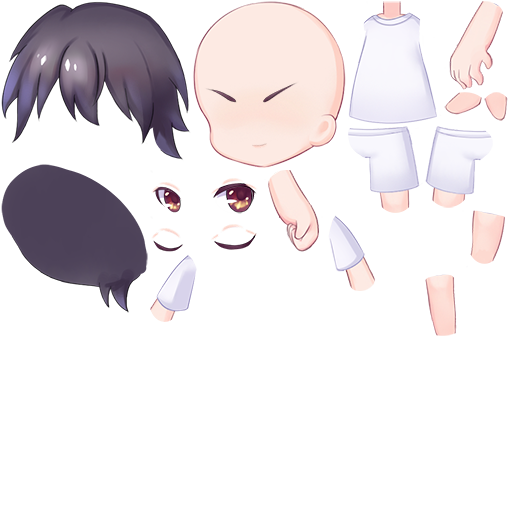
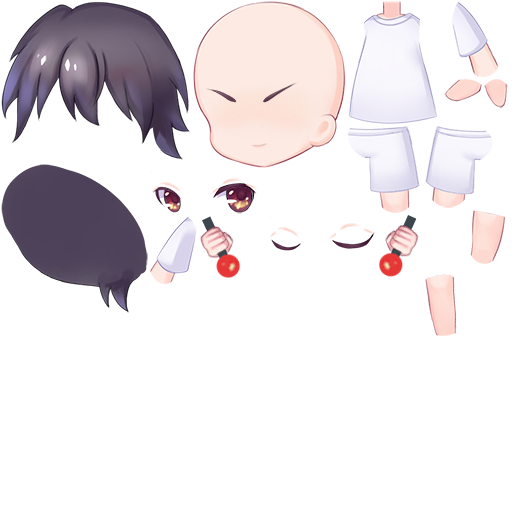
炮管更新小人动画

Changed region(s): [[0.5, 0.3125, 0.8125, 0.5938], [0.2812, 0.4062, 0.5, 0.625], [0.875, 0.0, 1.0, 0.25]]

diff --git a/ClientBoss/src/core/scenes/role/RoleBone.ts b/ClientBoss/src/core/scenes/role/RoleBone.ts
@@ -1,0 +1,143 @@
+module game {
+    export enum SexType
+    {
+        Boy  = 1,
+        Girl = 0,
+    }
+    export class RoleBone extends PanelComponent {
+
+        grp_role            : eui.Group;
+        
+        private _girlBone   : SkeletonBase;
+        private _boyBone    : SkeletonBase;
+        private gender;
+
+
+
+        protected getSkinName()
+        {
+            return RoleBoneSkin;
+        }
+
+        protected init() 
+        {
+
+        }
+
+        public awake()
+        {
+            console.log("Role Bone Awake",DataManager.playerModel.sex);
+
+            this.gender = DataManager.playerModel.sex;
+            this.updateBones();
+            //切换模型骨骼
+            this.useGirlSpine(this.gender == SexType.Girl);
+        }
+        
+        private resetParts(bone: SkeletonBase) {
+            if (!bone) return;
+            let slots = bone.armature.getSlots();
+            slots.forEach((slot) => {
+                bone.resetSlot(slot.name);
+            })
+        }
+
+        private changePart(e: table.IEquipDefine) {
+            let pos = e.Pos;
+            let sex = e.Sex;
+            let slotNames = e.LoadPoint;
+            let suit = e['Suit'];
+            if (slotNames.length <= 0) return;
+            if (sex == 0) {
+                suit = suit || "girl_suit2";
+                if (!this._girlBone) return;
+                this.changeSlotsInSuit(this._girlBone, slotNames, suit);
+            } else {
+                suit = suit || "boy_suit2";
+                if (!this._boyBone) return;
+                this.changeSlotsInSuit(this._boyBone, slotNames, suit);
+            }
+
+        }
+
+        private changeSlotsInSuit(bone: SkeletonBase, slotNames: string[], suitName: string) {
+            slotNames.forEach((name) => {
+                let assetName = `${suitName}_json.${name}`;
+                // console.log("骨骼图集：", assetName);
+                bone.setNewSlot(name, assetName);
+            })
+        }
+
+        private resetSlots(bone: SkeletonBase, slotNames: string[]) {
+            slotNames.forEach((name) => bone.resetSlot(name));
+        }
+    
+        //TODO: 切换模型骨骼
+        public async useGirlSpine(b: boolean) {
+            hideAllChildren(this.grp_role);
+            if (b) {
+                if (!this._girlBone) {
+                    this._girlBone = await game.getBone("girl");
+                    this.grp_role.addChild(this._girlBone);
+                    adjustBone(<egret.DisplayObject>(this._girlBone), this.grp_role);
+                    let r = randRange(1, this._girlBone.animNum);
+                    r = 4;
+                    this._girlBone.play(`idle${r}`, -1);
+                }
+                this._boyBone && (this._boyBone.visible = false);
+                this._girlBone && (this._girlBone.visible = true);
+            } else {
+                if (!this._boyBone) {
+                    this._boyBone = await game.getBone("boy");
+                    this.grp_role.addChild(this._boyBone);
+                    adjustBone(<egret.DisplayObject>(this._boyBone), this.grp_role);
+                    let r = randRange(1, this._boyBone.animNum);
+                    r = 4;                    
+                    this._boyBone.play(`idle${r}`, -1);
+                }
+                this._boyBone && (this._boyBone.visible = true);
+                this._girlBone && (this._girlBone.visible = false);
+            }
+            this.updateBones();  
+
+            if(this.gender == SexType.Girl)
+            {
+                if(!this._girlBone) return;
+                this.resetSlots(this._girlBone, ["body1_1_02","body1_1_04"]);
+            }
+            else if(this.gender == SexType.Boy)
+            {
+                if(!this._boyBone) return;
+                this.resetSlots(this._boyBone, ["body1_1_02","body1_1_04"]);                          
+            }
+        }
+
+        // 更新骨骼动画
+        private updateBones() {
+            let clothes = DataManager.playerModel.clothes;
+            if (!clothes) {
+                return;
+            }
+            for (let l of clothes) {
+                if (l.sex == this.gender) 
+                {
+                    if (l.clothes.length == 0) 
+                    {
+                        if (this.gender == 0)
+                            this.resetParts(this._girlBone);
+                        else
+                            this.resetParts(this._boyBone);
+                        return;
+                    }
+                    else
+                    {
+                        for (let m of l.clothes) {
+                            let item = table.EquipById[m.id];
+                            this.changePart(item);
+                        }
+                    }
+                }
+            }
+        }
+    }
+}

diff --git a/ClientBoss/src/core/scenes/role/RoleDress.ts b/ClientBoss/src/core/scenes/role/RoleDress.ts
@@ -254,9 +254,6 @@ module game {
        
             while ((dressItem = table.EquipById[id++])) {
                 if (dressItem.Sex == this.gender || dressItem.Sex == 2) {
-                    if (DataManager.playerModel.IsHaveItem(dressItem.Id)) {
-                        dressItem.Price = -1;
-                    }
                     this._dataProv.addItem(dressItem);
                 }
             }
@@ -473,6 +470,10 @@ module game {
             slots.forEach((slot) => {
                 bone.resetSlot(slot.name);
             })
+            
+            //强制重置替换左右手贴图
+            let suitName = this.isGirl ? "girl_suit2" :"boy_suit2";
+            this.changeSlotsInSuit(bone,["body1_1_02","body1_1_04"], suitName);
         }
 
         private changePartWithNet(item: table.IEquipDefine) {
@@ -510,15 +511,18 @@ module game {
                 bone.setNewSlot(name, assetName);
             })
         }
-
+        
+        //脱下衣服并且重置为骨骼默认绑定图片
         private unwear(item: table.IEquipDefine) {
             if (item.LoadPoint.length <= 0) return;
-            if (item.Sex == 0) {
-                this.resetSlots(this._girlBone, item.LoadPoint);
-            } else {
-                this.resetSlots(this._boyBone, item.LoadPoint);
-            }
 
+            let bone = item.Sex == 0 ? this._girlBone : this._boyBone;
+            this.resetSlots(bone, item.LoadPoint);
+
+            //强制重置替换左右手贴图
+            let suitName = this.isGirl ? "girl_suit2" :"boy_suit2";
+            this.changeSlotsInSuit(bone,["body1_1_02","body1_1_04"], suitName);
+ 
             if (DataManager.playerModel.IsHaveItem(item.Id)) {
                 this.sendmsg_UnDressCloth({
                     pos: item.Pos
@@ -538,7 +542,8 @@ module game {
                     this._girlBone = await game.getBone("girl");
                     this.grp_role.addChild(this._girlBone);
                     adjustBone(<egret.DisplayObject>(this._girlBone), this.grp_role);
-                    let r = randRange(1, this._girlBone.animNum);
+                    //let r = randRange(1, this._girlBone.animNum);
+                    let r = randRange(1, 4);                    
                     this._girlBone.play(`idle${r}`, -1);
                 }
                 this._boyBone && (this._boyBone.visible = false);
@@ -548,7 +553,8 @@ module game {
                     this._boyBone = await game.getBone("boy");
                     this.grp_role.addChild(this._boyBone);
                     adjustBone(<egret.DisplayObject>(this._boyBone), this.grp_role);
-                    let r = randRange(1, this._boyBone.animNum);
+                    //let r = randRange(1, this._boyBone.animNum);
+                    let r = randRange(1, 4);                    
                     this._boyBone.play(`idle${r}`, -1);
                 }
                 this._boyBone && (this._boyBone.visible = true);

diff --git a/ClientBoss/src/core/scenes/battle/BattleScene.ts b/ClientBoss/src/core/scenes/battle/BattleScene.ts
@@ -17,6 +17,8 @@ module game {
         ball1Price: eui.Label;
         ball2Price: eui.Label;
         hitLabel: eui.Label;
+        diamondNumTxt : eui.Label;
+        
         topImage: eui.Image;
         noticeLabel: eui.Label;
         brickInfoGroup: eui.Group;
@@ -38,6 +40,8 @@ module game {
 
         coin_money: game.Coins;
         coin_gold: game.Coins;
+
+        roleBoneGroup : eui.Group;
 
         private _nowSp: number = 0;
         private _spCool: number = 0;
@@ -66,6 +70,7 @@ module game {
         private _timeBoomPool: ObjectPool<BattleTimeBoom>;
         private _firewallPool: ObjectPool<BattleFirewall>;
         private _icePool: ObjectPool<BattleIce>;
+        private _roleBonePool : ObjectPool<RoleBone>;
 
         private _paddle: BattlePaddle;
 
@@ -167,6 +172,7 @@ module game {
             this._timeBoomPool = new ObjectPool<BattleTimeBoom>(BattleTimeBoom);
             this._firewallPool = new ObjectPool<BattleFirewall>(BattleFirewall);
             this._icePool = new ObjectPool<BattleIce>(BattleIce);
+            this._roleBonePool = new ObjectPool<RoleBone>(RoleBone);
 
             for (let brickInfo of table.TBirckInfo) {
                 if (!brickInfo.Bullet) continue;
@@ -324,6 +330,19 @@ module game {
             this._diedMaxX = 720 + 14;
             this._nowSp = 0;
             this.updateSp();
+
+            //小人动画
+            let _roleBone = this._roleBonePool.createObject();
+            _roleBone.awake();
+            this.roleBoneGroup.addChild(_roleBone);
+            this.roleBoneGroup.setChildIndex(_roleBone,1);
+        
+            _roleBone.scaleX = 0.42;
+            _roleBone.scaleY = 0.42;
+            _roleBone.rotation  = 12;
+            _roleBone.x = 55;
+            _roleBone.y = 30;
+
 
             this.doubleGroup.visible = false;
             this._leftFirewall = [];
@@ -565,7 +584,8 @@ module game {
         }
 
         private updateDiamond() {
-            this.coin_money.coins = <number>DataManager.playerModel.getDiamond();
+            //this.coin_money.coins = <number>DataManager.playerModel.getDiamond();
+            this.diamondNumTxt.text = DataManager.playerModel.getDiamond().toString();      
         }
 
         private ballHandle(ballButton: IconButton) {

diff --git a/ClientBoss/src/core/scenes/role/ChooseIcon.ts b/ClientBoss/src/core/scenes/role/ChooseIcon.ts
@@ -18,11 +18,7 @@ module game {
 			this.icon.source = data.iconPath;
 			this.posType = data.Type;
 		}
-
-		public setIcon(src:string) {
-			this.icon.source = src;
-		}
-
+		
 		public radioChangeHandler()
 		{
 			this.chose.visible = this.radioButton.selected;

diff --git a/ClientBoss/libs/exml.e.d.ts b/ClientBoss/libs/exml.e.d.ts
@@ -105,3 +105,6 @@ declare class ShopItemSkin extends eui.Skin{
 }
 declare class ShoppingCartSkin extends eui.Skin{   
 }
+declare class RoleBoneSkin extends eui.Skin{   
+}
+
